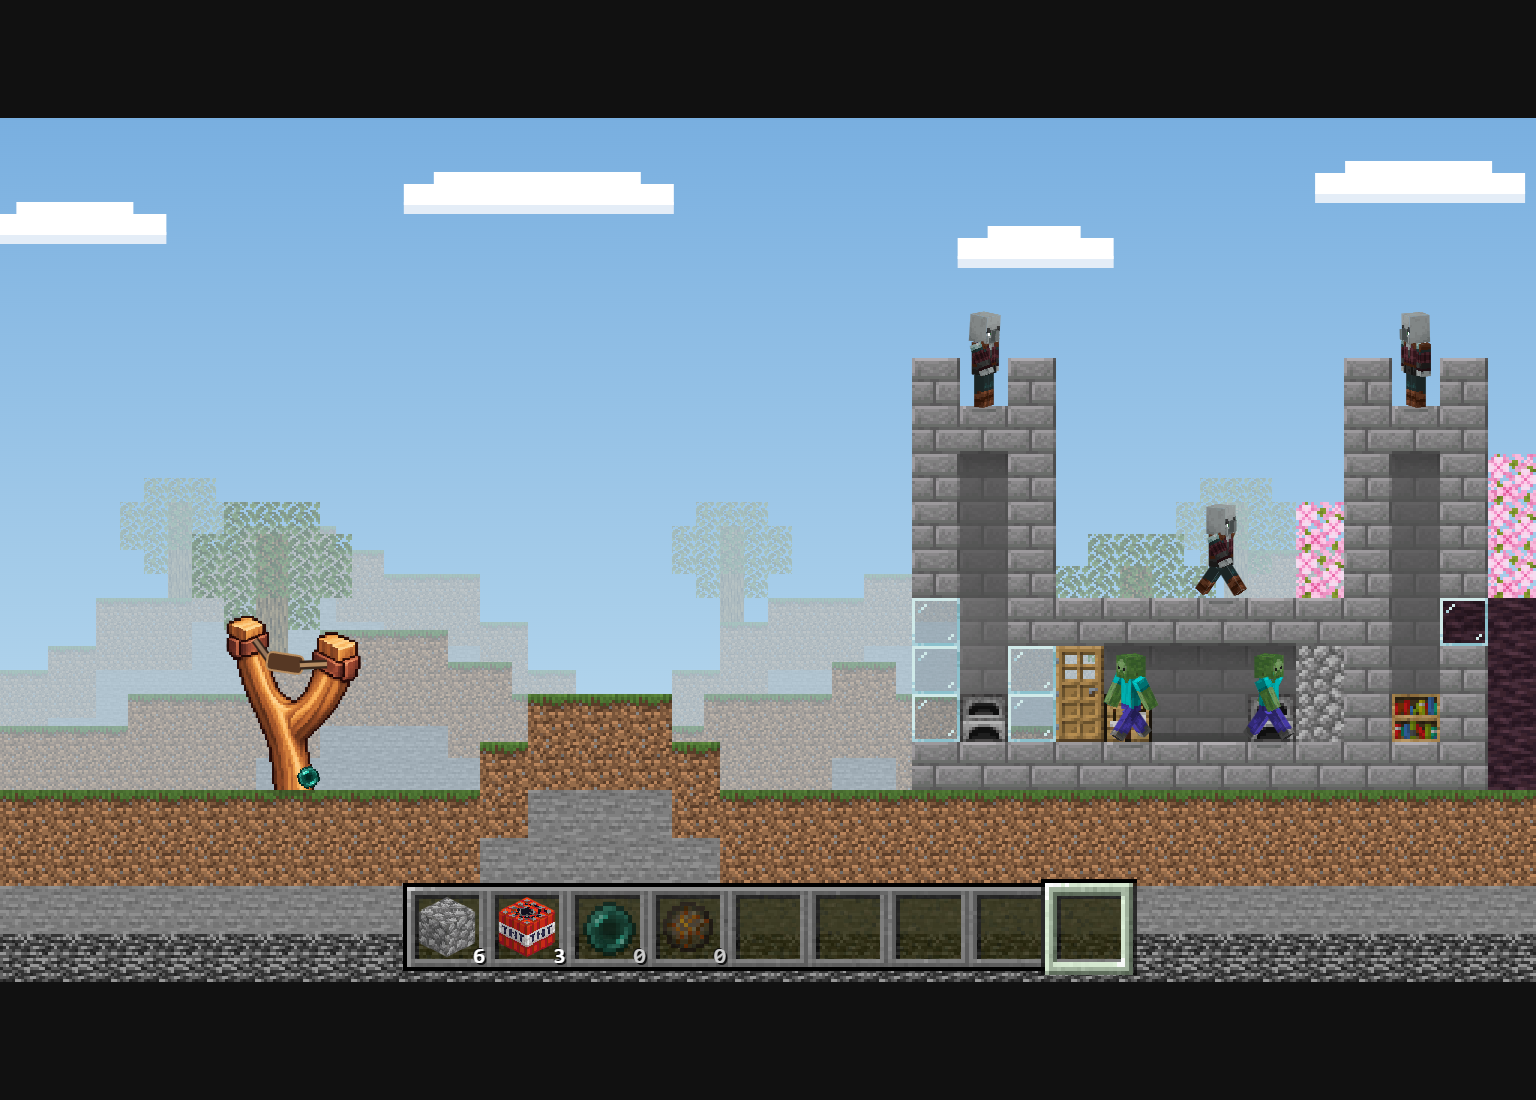
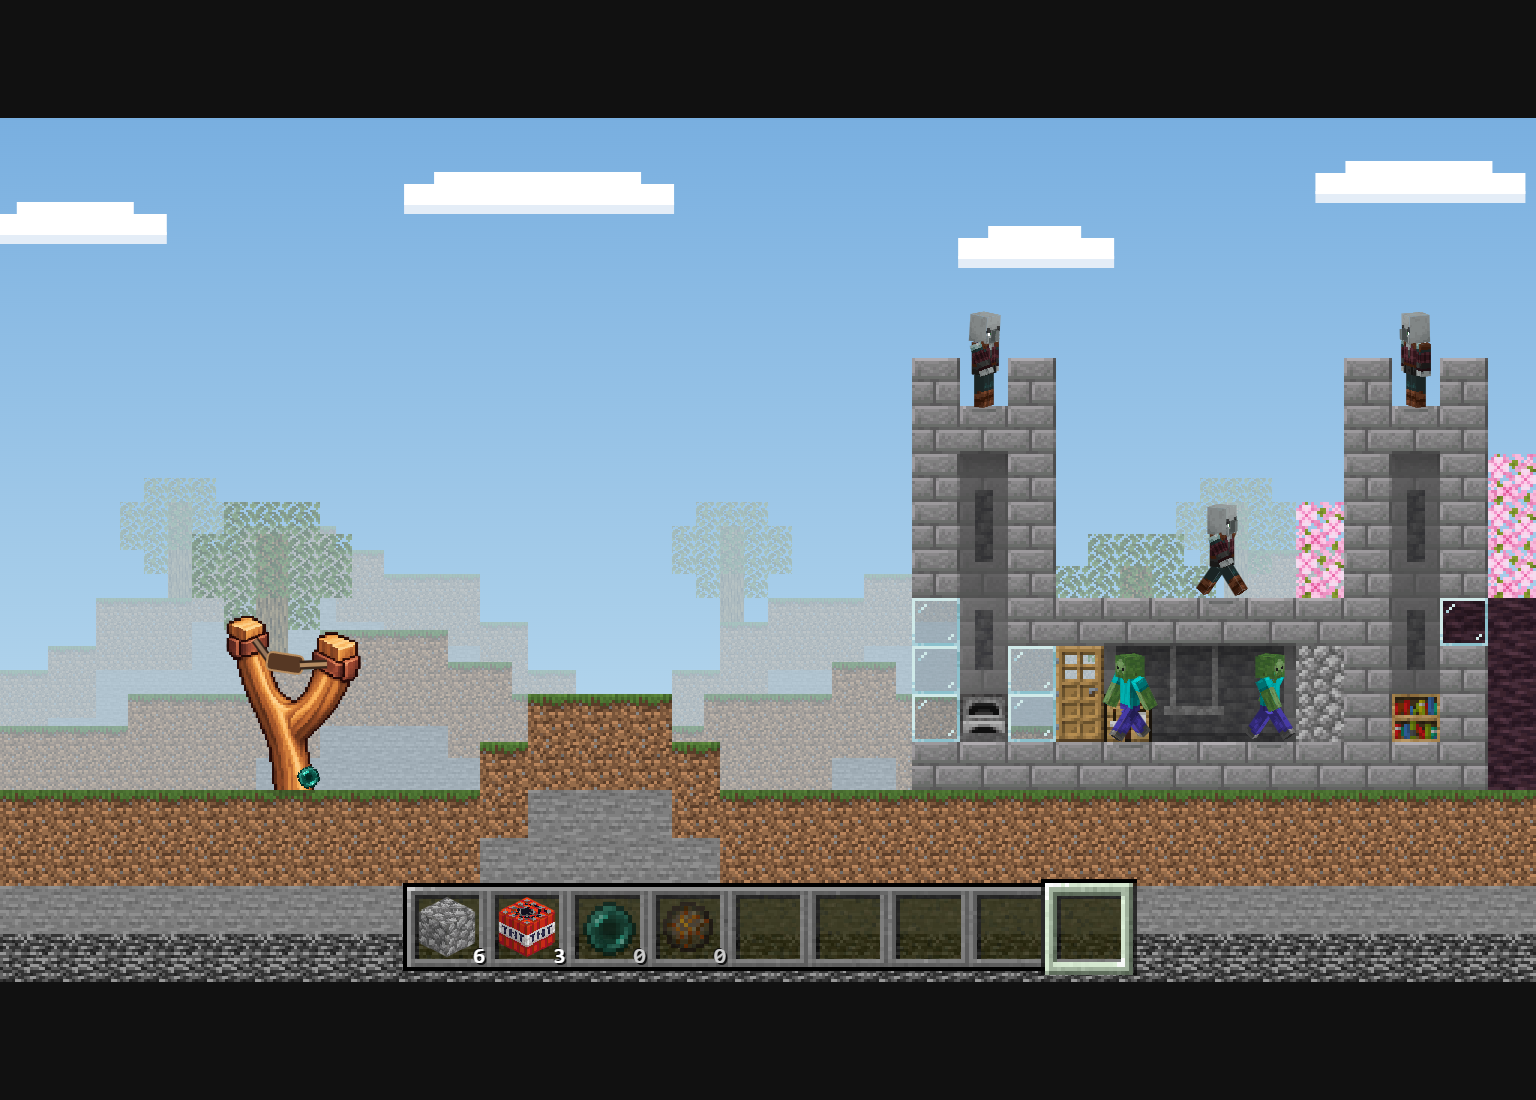
Polish all campaign buildings and add surface fire hazards

diff --git a/README.md b/README.md
@@ -18,7 +18,7 @@ Windows 玩家可下载[0.11.0 历史试玩包](https://github.com/qcya/stone-at
 
 - 拖住弹药调整方向和力度，松开发射；可向后、轻抛。右键取消；手机拉弓时用另一根手指轻点任意位置取消。
 - 首页使用游戏引擎实时绘制的简洁村庄木屋与弹弓场景，点击任意位置（或 Enter／空格）进入选关；首次游玩先设置昵称。选关仿早期 MC 世界菜单，每页五关，横竖屏均竖排，翻页查看后五关，保留个人最快时间与点按道具提示。
-- 原版九格物品栏，数字键 1–9／滚轮切换；前四格固定为圆石、TNT、末影珍珠、烈焰弹。已解锁但本关未配或已用完的道具保留暗图标与数量 0；未解锁和预留格为空。触屏保持可见，电脑闲置后自动隐藏。
+- 原版九格物品栏，数字键 1–9／滚轮切换；前四格固定为圆石、TNT、末影珍珠、烈焰弹。所有已解锁弹药都显示数量（含1）；本关未配或已用完时保留暗图标与0。未解锁和预留格为空。触屏保持可见，电脑闲置后自动隐藏。
 - ESC / 手机左上角“暂停菜单”暂停；依次提供继续游戏、重新开始、设置、选择关卡、返回主菜单。设置可开关音效、调节音效音量并保存，也可独立开关音乐。R 重开当前关，切到其他应用自动暂停。
 - 选关“全屏”优先调用 Toy App 的横屏沉浸接口，再尝试浏览器全屏与方向锁定；成功后按钮显示“取消全屏”，点击退出并释放方向锁，不支持时显示提示。真实手机仍需验收。
 - 通关页显示本次用时和个人最快；选关卡片右侧显示个人最快，只有点击“道具”才展开本关弹药短清单，再点一次或点空白处关闭。总榜保持十关全通后上榜，只展示各关最快用时之和。
@@ -51,6 +51,8 @@ Windows 玩家可下载[0.11.0 历史试玩包](https://github.com/qcya/stone-at
 | 烈焰弹 | 点燃相连木材，逐像素燃烧；以命中格为中心最宽五格 | 每发三次持续伤害；普通怪三次烧死，监守者六次 |
 
 烈焰弹可烧原木、木板、门、台阶、梯子后墙、工作台、书架，前景和后景都可燃；不烧土、石头、玻璃、熔炉。起点及存在的四邻木块保证燃烧，蔓延受连接和半径限制，不跨空隙。使用原版火焰动画与音效。
+
+命中不可燃表面也会在撞击面外侧留下2.8秒火区，以相邻空格为中心及四邻格形成十字，经过的怪物同样会受到三段燃烧伤害。此类落火只烧接触到的局部木格，不沿相连木材继续蔓延；直接命中木材才使用原有五格直径的蔓延规则。
 
 **房屋和后墙始终固定，失去支撑也不会倒塌。** 每个初始方块有完整 16×16 纹理，纹理像素可独立破坏。爆炸能推动场上弹药，TNT 各自保留引信。弹药、敌人使用本地 Matter.js 0.20.0，无降级物理模式。
 

diff --git a/docs/TOY.md b/docs/TOY.md
@@ -1,5 +1,13 @@
 # B 站 Toy 适配
 
+## 当前试玩：建筑重绘、表面落火与单件计数 — 2026-10-18
+
+重新整理菜单小屋及十关建筑的屋顶边、山墙、窗台、木窗格、石质箭孔与层间收边。菜单使用独立带悬挑屋檐和烟囱的小屋；十关实际前景、后墙材质与怪物参数逐字节保持一致，贴面随对应方块破坏，不跨越可燃类别。对照见`evidence/architecture-contact-sheet.jpg`及`architecture-geometry-preservation.json`。
+
+烈焰弹命中不可燃表面后在撞击面外侧一格留下中心加四邻的五格火区；怪物进入后同源三次燃烧，不重复叠伤。此类局部火只烧触及木格，不继续传播；直接木材命中保留原范围蔓延。补齐四向玻璃/石土表面、局部木地板、后续走入火区与移动物件碰撞回归。九格物品栏也显示数量1。
+
+169项单测、47项浏览器回归通过，含十关有限弹药实际通关。内网部署保留玩家资料及榜单，不提交Toy审核；介绍视频另在本地重录并按用户要求输出720p60审看版，不发布视频。
+
 ## 当前试玩修正：关卡单行信息 — 2026-10-18
 
 修复中等窗口高度下双行文字挤压标题：所有横竖屏统一按“编号 → 完整标题 → 最快用时 → 道具”单行居中排列，不再上下分行。窄屏缩小字号与列间距，保留每页五关。带十关成绩的回归覆盖1536×1100、1000×700、670×520、568×320、390×844、320×568两页内容，校验标题未裁切、各列不重叠；12项相关浏览器用例通过，截图已人工检查。更新内网与GitHub，不提交Toy审核。
